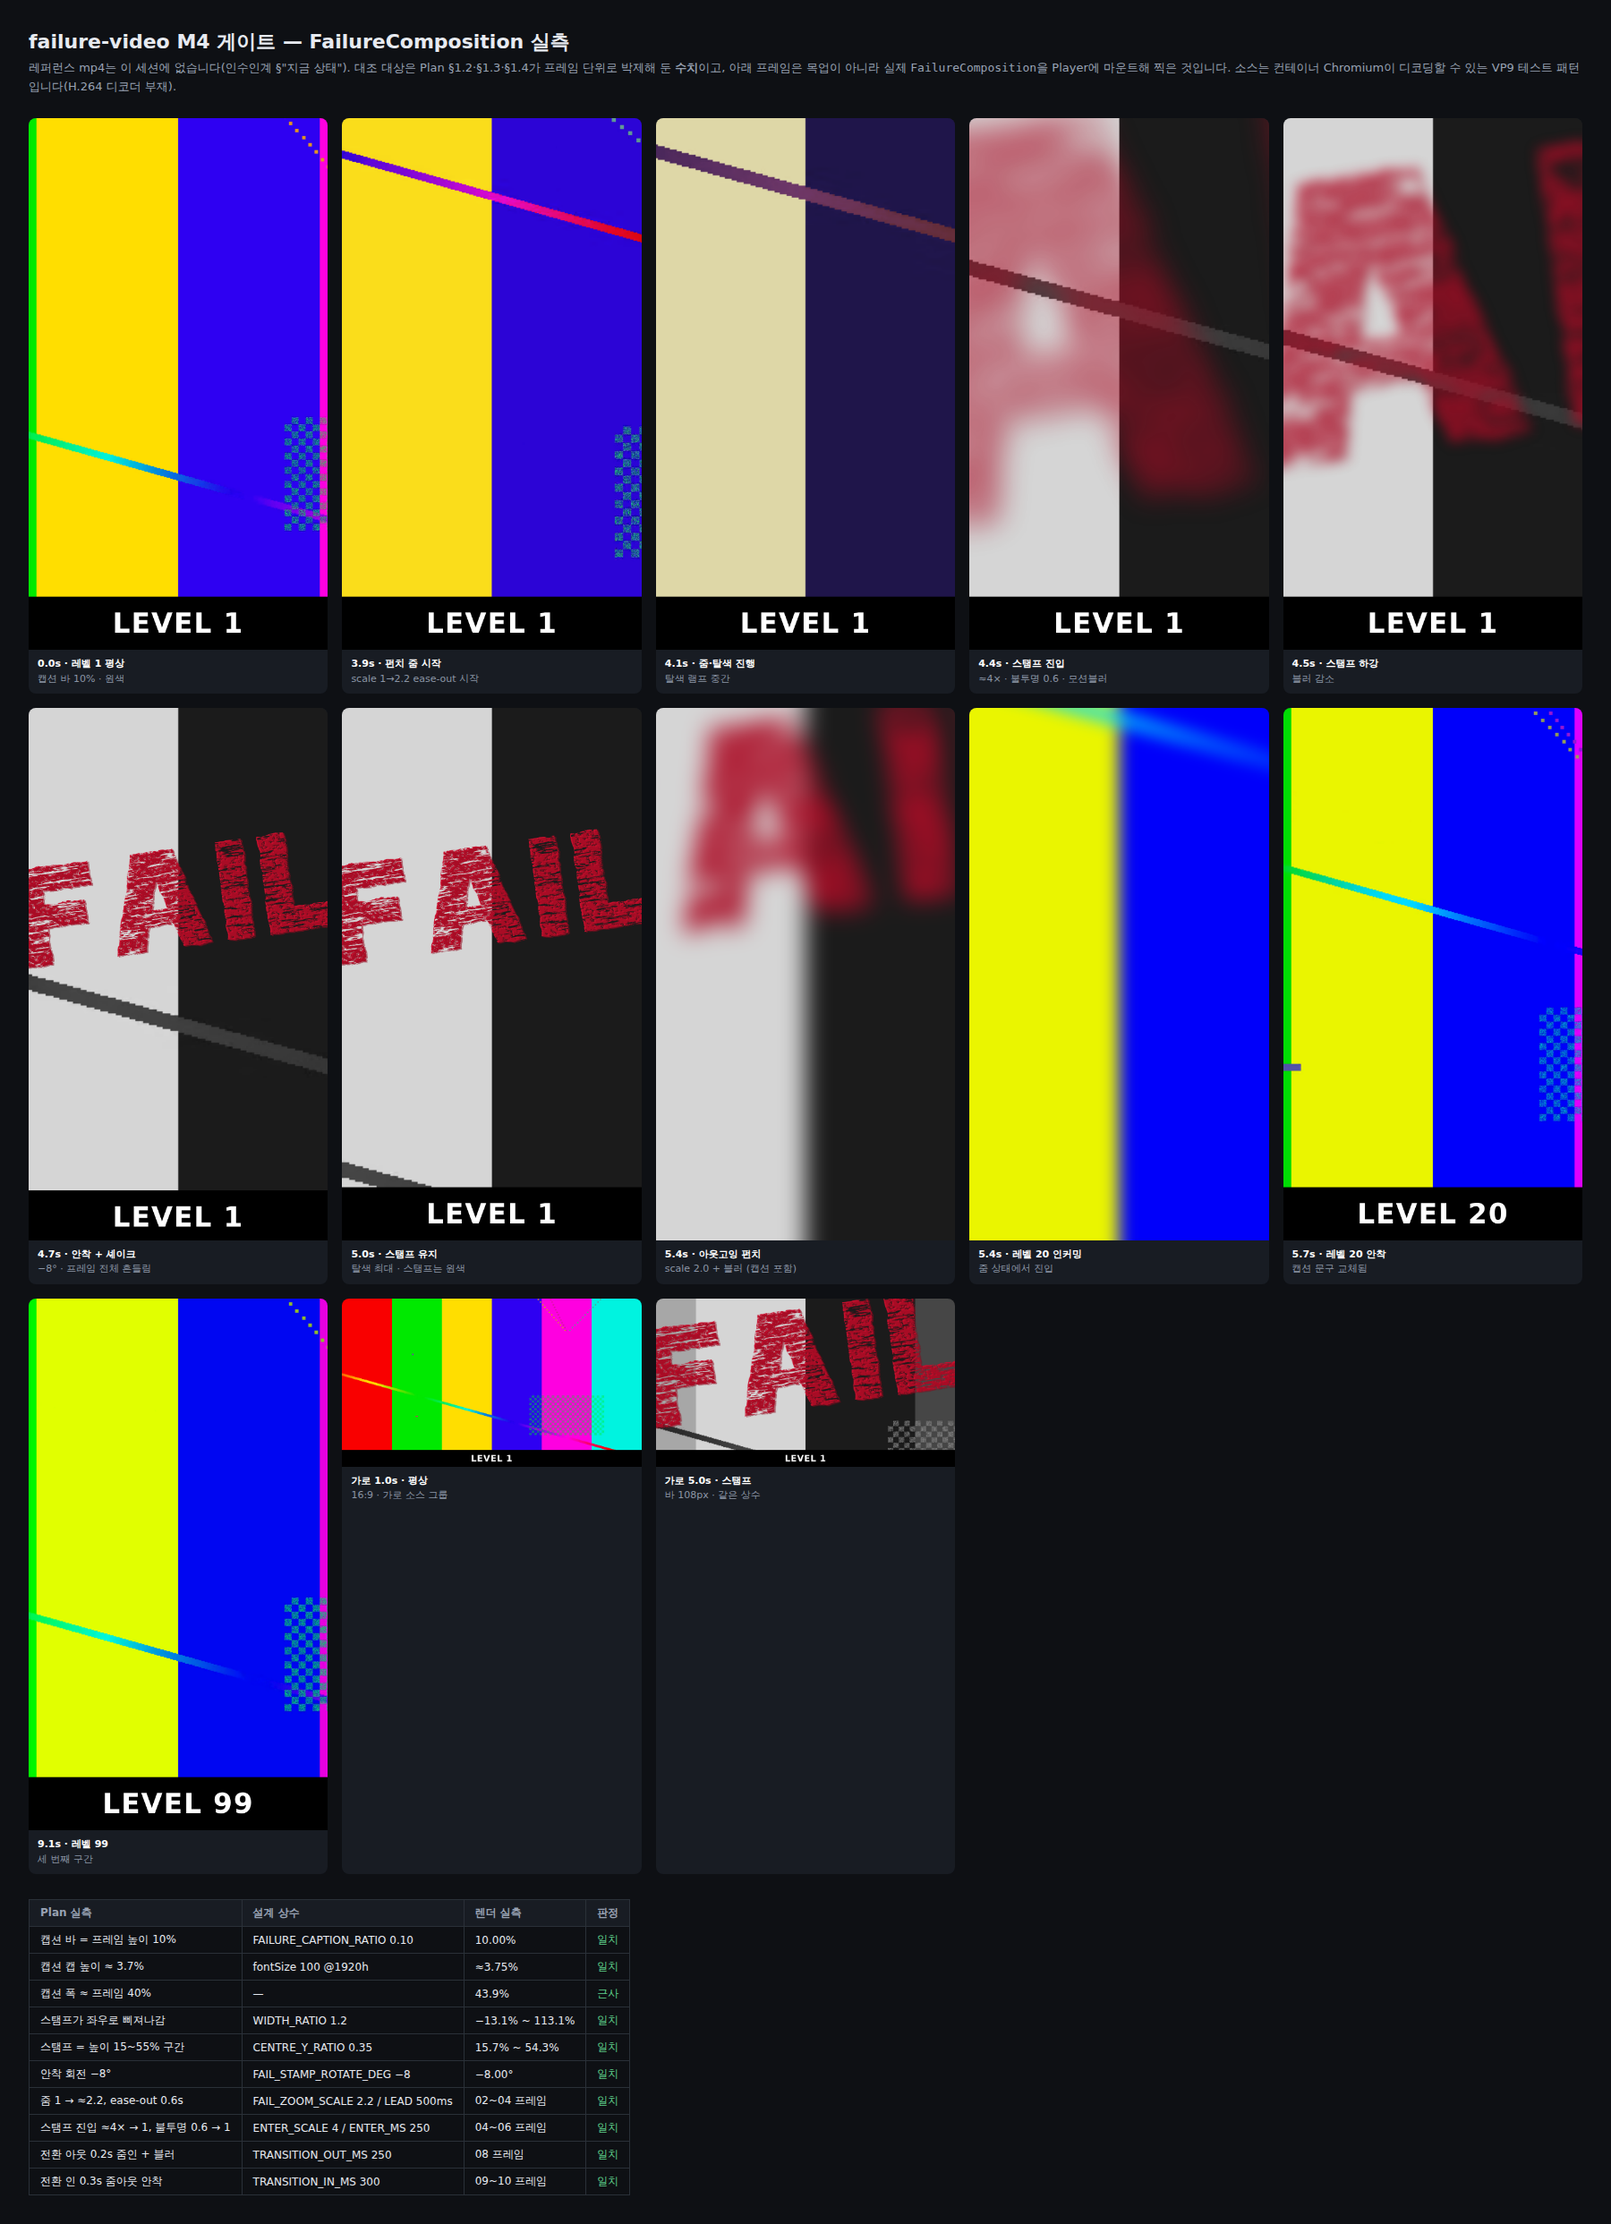
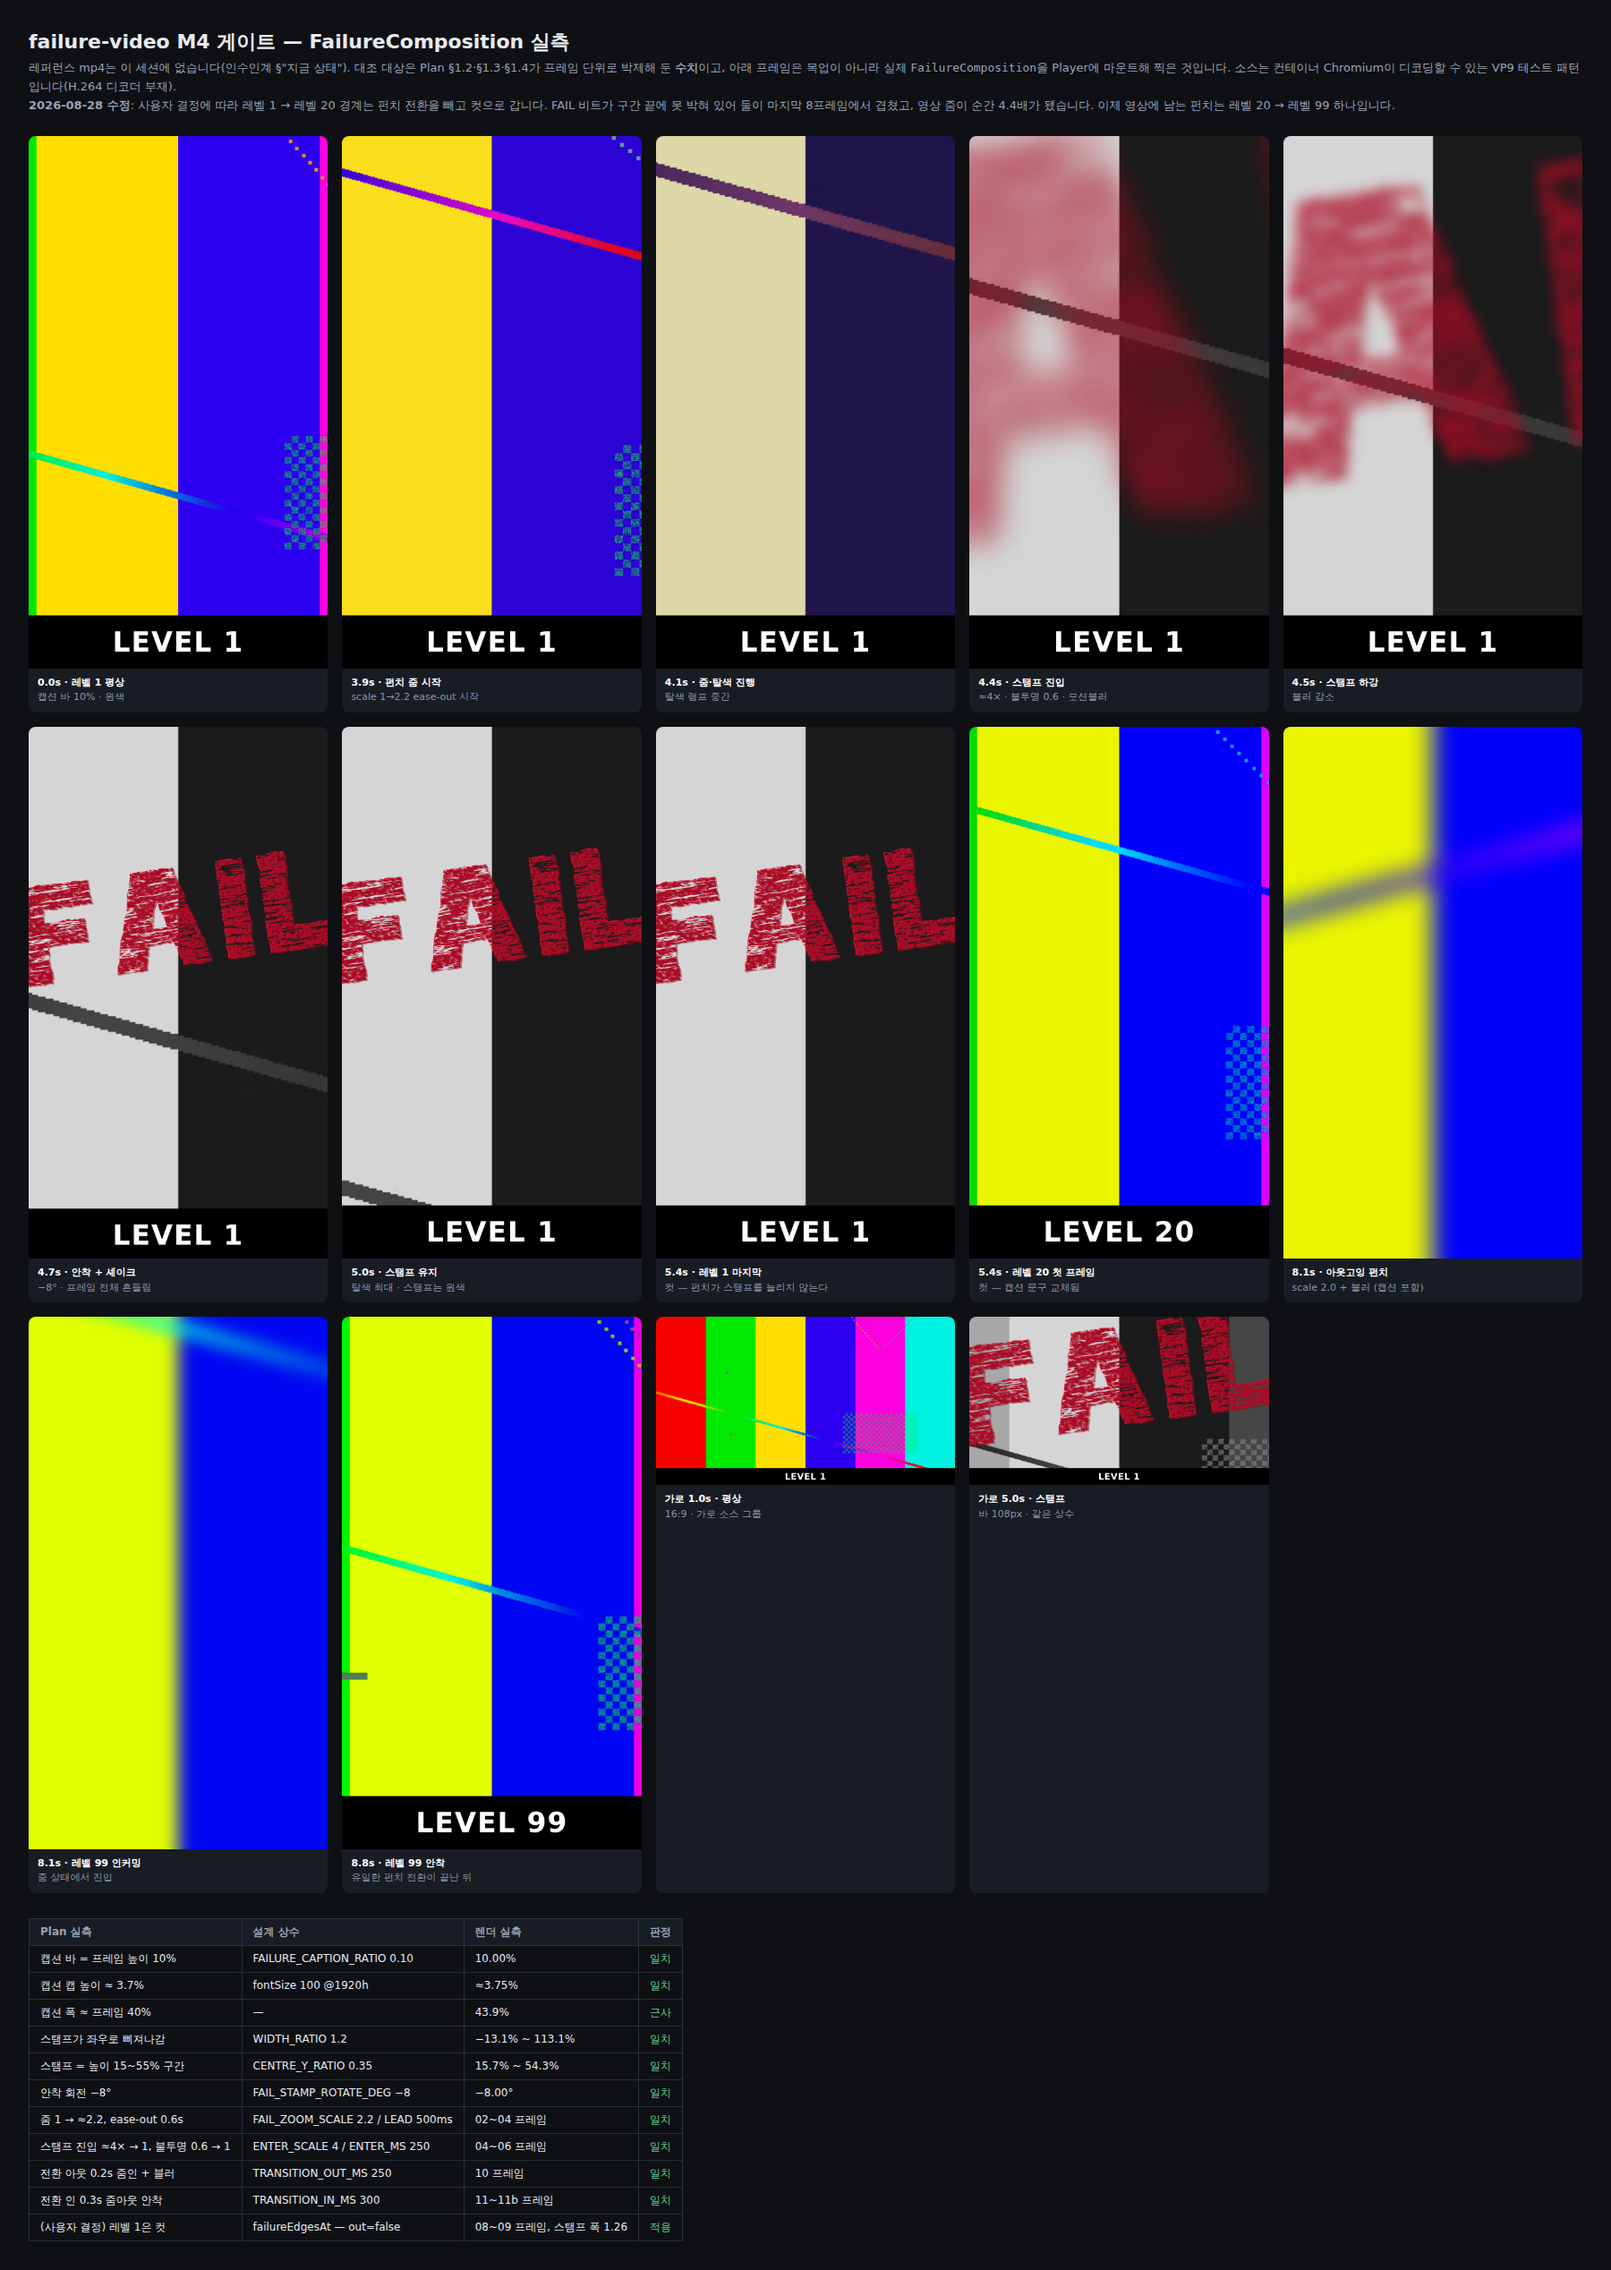
feat(failure): D-12 — 레벨 1은 펀치 아웃 없이 컷 (사용자 결정)
FAIL 창이 구간 1의 끝에 앵커돼 있어(D-3, "마지막 1초 고정") 아웃고잉 펀치와
겹쳤다. 30초 프리셋에서 구간 1은 162프레임, FAIL 창은 117–161, 펀치 아웃은
154–161 — 마지막 8프레임에 둘 다 걸리고 영상 레이어가 2.2 × 2.0 = 4.4배가 된다.
레퍼런스에는 이 상태가 없다(거기서는 FAIL이 구간 중간, 전환은 수 초 뒤).

failureEdgesAt의 두 조건에 하한을 더해 레벨 1 → 레벨 20 경계를 컷으로 했다.
전환의 양쪽 절반을 다 뺐다 — panel-a의 out만 빼면 앞선 줌인 없이 줌아웃만 남아
2배에서 튀어나오는 것처럼 보인다. 영상에 남는 펀치는 레벨 20 → 레벨 99 하나이고,
이는 레퍼런스의 두 번째 전환에 대응한다.

- 유닛: 네 인덱스의 기대값 + "구간 1의 모든 프레임에서 zoomPunchAt이 null"을
  전수 단언. 상수가 아니라 불변식으로 적어야 이 변경의 요점이 지켜진다.
- E2E: SC3 전환 단언을 8.1s 경계로 옮기고, 레벨 1 경계가 컷인지를 새로 단언.
- M4 게이트: 구간 1 마지막 프레임의 스탬프 화면 폭이 1.261 — 안착값 그대로다
  (펀치가 걸렸다면 2배). 프레임 08·09가 컷, 10·11·11b가 남은 펀치.
- Design §6.2·§13에 D-12로 기록, analysis §9를 확정된 결정으로 다시 씀.

검증: npm test 727/727 · npm run build · M4 게이트 10/10 · verify-m5-ui 33/33.

Claude-Session: https://claude.ai/code/session_01AxDTCsXE1hSEmWch6ML2Mm

diff --git a/tests/e2e/failure.spec.ts b/tests/e2e/failure.spec.ts
@@ -303,10 +303,10 @@ test.describe('failure — the growth-story template', () => {
     ).toBeLessThan(0.01);
 
     // --- SC3: the punch transition ------------------------------------------
-    // §6.2 — the outgoing frame is scaled 2x over the last 0.25s, which lifts
-    // the caption bar's top edge off its resting row. At rest the row at y=1700
-    // is footage and the row at y=1750 is bar; at full zoom the bar has been
-    // scaled past both.
+    // §6.2, as amended 2026-08-28 — the level 20 -> level 99 boundary is the one
+    // that punches. The outgoing frame is scaled 2x over the last 0.25s, which
+    // lifts the caption bar off its resting row: at rest y=1750 is bar, at full
+    // zoom the bar has been scaled past it.
     const edgeAt = async (seconds: number) => {
       const pixels = await sampleRegion(outputPath, seconds, {
         x: 500,
@@ -318,17 +318,27 @@ test.describe('failure — the growth-story template', () => {
       return meanRgb(pixels as never);
     };
 
-    const resting = await edgeAt(LEVEL_ONE_END - 1);
-    const punched = await edgeAt(LEVEL_ONE_END - 0.02);
+    const resting = await edgeAt(LEVEL_TWO_END - 1);
+    const punched = await edgeAt(LEVEL_TWO_END - 0.02);
 
     // At rest this is the black bar; mid-punch it is anything but.
     resting.forEach((channel) => expect(channel).toBeLessThan(24));
     expect(Math.max(...punched)).toBeGreaterThan(40);
 
-    // The incoming frame settles back: 0.4s into level 2 the bar is home again.
-    const settled = await edgeAt(LEVEL_ONE_END + 0.5);
+    // The incoming frame settles back: 0.5s into level 99 the bar is home again.
+    const settled = await edgeAt(LEVEL_TWO_END + 0.5);
 
     settled.forEach((channel) => expect(channel).toBeLessThan(24));
+
+    // And the level 1 -> level 20 boundary is a clean cut, which is the whole
+    // point of the amendment: the FAIL stamp is still settled on the last frame
+    // of level 1, so a punch there would have scaled it with the frame.
+    const beforeCut = await edgeAt(LEVEL_ONE_END - 0.02);
+    const afterCut = await edgeAt(LEVEL_ONE_END + 0.02);
+
+    for (const bar of [beforeCut, afterCut]) {
+      bar.forEach((channel) => expect(channel).toBeLessThan(24));
+    }
 
     // --- SC5: the end card ---------------------------------------------------
     // The last 3s are the end card, which has no caption bar over it: with no
@@ -345,7 +355,6 @@ test.describe('failure — the growth-story template', () => {
     const beforeEndCard = meanRgb((await barSample(26)) as never);
 
     beforeEndCard.forEach((channel) => expect(channel).toBeLessThan(24));
-    expect(LEVEL_TWO_END).toBeLessThan(28.5);
   });
 
   test('leaves the other templates untouched (SC6)', async ({page}) => {

diff --git a/src/domain/failure/effects.ts b/src/domain/failure/effects.ts
@@ -314,14 +314,27 @@ export const zoomPunchAt = (
 };
 
 /**
- * The punch edges for a section index. Level 1 has no incoming punch (the video
- * opens there) and the end card has no outgoing one — its boundary is a cut,
- * exactly as in Day1, because the reference has no end card to measure.
+ * The punch edges for a section index. Three boundaries, and only the middle one
+ * punches:
+ *
+ * - The video opens on level 1, so there is nothing to settle in from.
+ * - **Level 1 does not punch out** (user decision, 2026-08-28). The FAIL beat is
+ *   anchored to the end of that section (D-3), so the punch used to land on top
+ *   of it: at the 30s preset the last 8 frames of level 1 carried both, and the
+ *   footage was scaled 2.2x by the beat and 2.0x again by the punch. The
+ *   reference never shows that — there the FAIL sits mid-segment and the
+ *   transition is seconds later — so the two are separated by cutting here
+ *   instead. The stamp gets the frame to itself and the cut does the work.
+ * - The end card's boundary is a cut too, as in Day1: the reference has no end
+ *   card to measure a transition from.
+ *
+ * That leaves the level 20 -> level 99 boundary as the one punch in the video,
+ * which is also the one the reference's own second transition corresponds to.
  */
 export const failureEdgesAt = (
   index: number,
   sectionCount: number,
 ): FailureEdges => ({
-  in: index > 0 && index < sectionCount - 1,
-  out: index < sectionCount - 2,
+  in: index > 1 && index < sectionCount - 1,
+  out: index > 0 && index < sectionCount - 2,
 });

diff --git a/src/domain/failure/effects.test.ts b/src/domain/failure/effects.test.ts
@@ -330,12 +330,30 @@ describe('zoomPunchAt', () => {
 });
 
 describe('failureEdgesAt', () => {
-  // FR-05 — the two level boundaries punch; the end card's boundary is a cut,
-  // exactly as in Day1, because the reference has no end card to measure.
-  it('punches the level boundaries and cuts to the end card', () => {
-    expect(failureEdgesAt(0, 4)).toEqual({in: false, out: true});
-    expect(failureEdgesAt(1, 4)).toEqual({in: true, out: true});
+  /**
+   * FR-05, as amended by the user on 2026-08-28: only the level 20 -> level 99
+   * boundary punches.
+   *
+   * Level 1 does not punch out because the FAIL beat is anchored to the end of
+   * that section, and the two used to land on the same frames. The end card's
+   * boundary is a cut for the Day1 reason.
+   */
+  it('punches only the middle boundary', () => {
+    expect(failureEdgesAt(0, 4)).toEqual({in: false, out: false});
+    expect(failureEdgesAt(1, 4)).toEqual({in: false, out: true});
     expect(failureEdgesAt(2, 4)).toEqual({in: true, out: false});
     expect(failureEdgesAt(3, 4)).toEqual({in: false, out: false});
+  });
+
+  /**
+   * The point of the change, stated as an invariant rather than as a constant:
+   * no frame of level 1 carries a punch, so nothing multiplies the FAIL zoom.
+   */
+  it('leaves every frame of the FAIL section free of the punch', () => {
+    const edges = failureEdgesAt(0, 4);
+
+    for (let frame = 0; frame < SECTION_FRAMES; frame += 1) {
+      expect(zoomPunchAt(frame, SECTION_FRAMES, FPS, edges)).toBeNull();
+    }
   });
 });

diff --git a/docs/02-design/features/failure-video.design.md b/docs/02-design/features/failure-video.design.md
@@ -471,8 +471,19 @@ export const failWindow = (sectionDurationInFrames: number, fps: number) => {
   `edges: {in: boolean; out: boolean}`. 아웃: 마지막 250ms에 scale 1→2 ease-in + blur 램프.
   인: 처음 300ms에 scale 2→1 ease-out + blur 감쇠. `transitionStyleAt`처럼 **각 섹션 자기 프레임
   범위 안**에서 동작해 Σframes 불변을 지킨다 ([transition.ts:2-6](../../../src/domain/render/transition.ts:2)).
-  섹션별 edges: panel-a `{in:false, out:true}`, panel-b `{in:true, out:true}`,
+  섹션별 edges: panel-a `{in:false, out:false}`, panel-b `{in:false, out:true}`,
   panel-c `{in:true, out:false}` — **엔드카드 경계는 컷** (day1과 동일, 레퍼런스에 근거 없음).
+
+> **D-12 (2026-08-28, Do 중 사용자 결정) — 레벨 1은 펀치 아웃도 하지 않는다.**
+> 초안은 panel-a `{in:false, out:true}`였다. 그런데 FAIL 창은 구간 1의 **끝**에
+> 앵커돼 있어(D-3, 사용자 요구 "마지막 1초 고정") 둘이 겹친다: 30초 프리셋에서
+> 구간 1은 162프레임, FAIL 창은 117–161, 펀치 아웃은 154–161 — **마지막 8프레임에
+> 둘 다** 걸리고 영상 레이어는 2.2 × 2.0 = 4.4배가 된다. 레퍼런스에는 이 상태가
+> 없다(거기서는 FAIL이 구간 중간, 전환은 수 초 뒤다). Do 단계에서 실측으로
+> 확인해 사용자에게 물었고, **레벨 1 → 레벨 20 경계를 컷으로** 하기로 했다.
+> 전환의 나머지 절반(panel-b의 in)도 함께 뺀다 — 앞선 줌인 없이 줌아웃만 남으면
+> 2배에서 튀어나오는 것처럼 보인다. 결과적으로 영상에 남는 펀치는 레벨 20 →
+> 레벨 99 하나이고, 이는 레퍼런스의 두 번째 전환에 대응한다.
 
 ### 6.3 `FailureComposition.tsx` / `FailureFrame.tsx`
 
@@ -805,6 +816,7 @@ FAIL 45프레임 + 전환 ~33프레임 ≈ 총 900프레임의 9%)이 낮아 +15
 | D-9 | 스탬프는 탈색 래퍼 밖(원색 유지), 셰이크·전환은 프레임 전체, 줌·탈색은 영상만 | §6.3 |
 | D-10 | 프록시 안전성: 효과는 전부 scale ≥ 1 + 셰이크는 프레임 레벨 | §7.4 |
 | D-11 | 구간 1 하한 refine 대신 창 압축 + 힌트 — **Plan R-6 접근을 의도적으로 대체** (드래그가 만든 합법 상태가 파싱 불가가 되는 것을 막는다) | §6.2 |
+| D-12 | **레벨 1 → 레벨 20 경계는 컷** — FAIL 창이 구간 끝 앵커라 펀치와 마지막 8프레임이 겹쳐 영상 줌이 4.4배가 됐다. Do 중 실측 후 사용자 결정 (2026-08-28) | §6.2 |
 
 ---
 
@@ -813,3 +825,4 @@ FAIL 45프레임 + 전환 ~33프레임 ≈ 총 900프레임의 9%)이 낮아 +15
 | 날짜 | 변경 |
 |---|---|
 | 2026-08-28 | 초안. Plan 결정(Q1-Q4·D-1~5)과 레퍼런스 실측을 반영. 설계 결정 D-0~D-11 확정 |
+| 2026-08-28 | Do 중 D-12 추가 — 레벨 1의 펀치 아웃을 뺀다(사용자 결정). §6.2 `failureEdgesAt` 갱신 |
